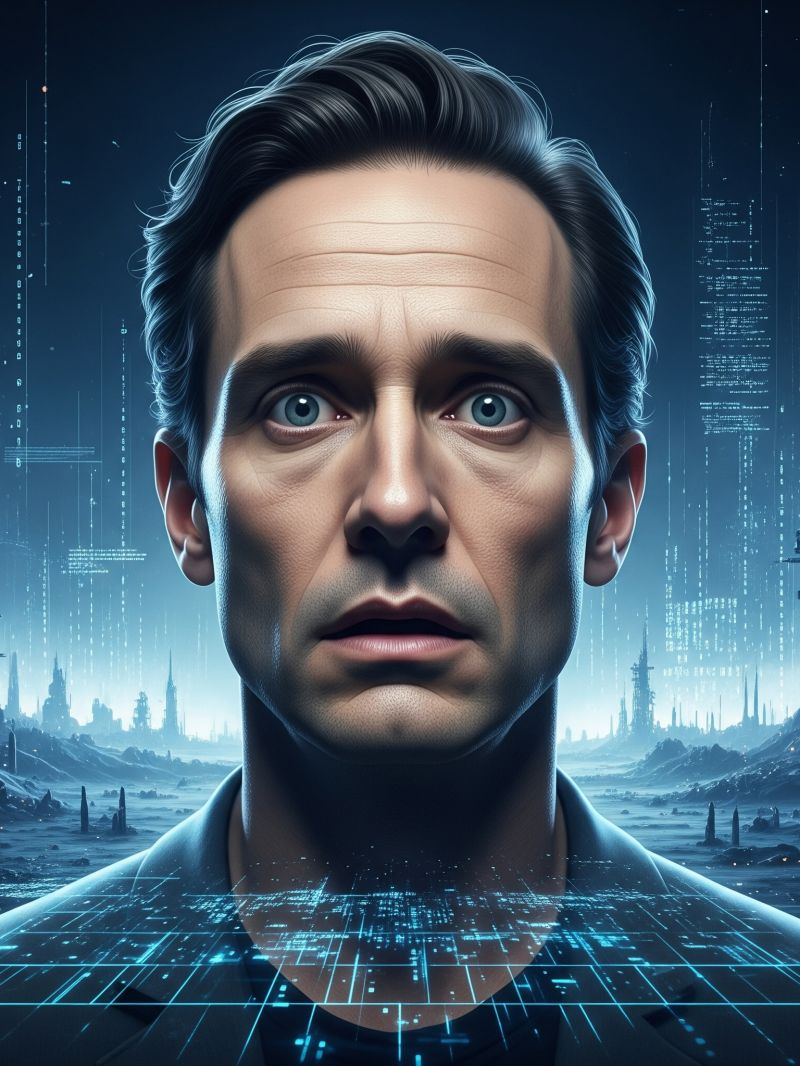
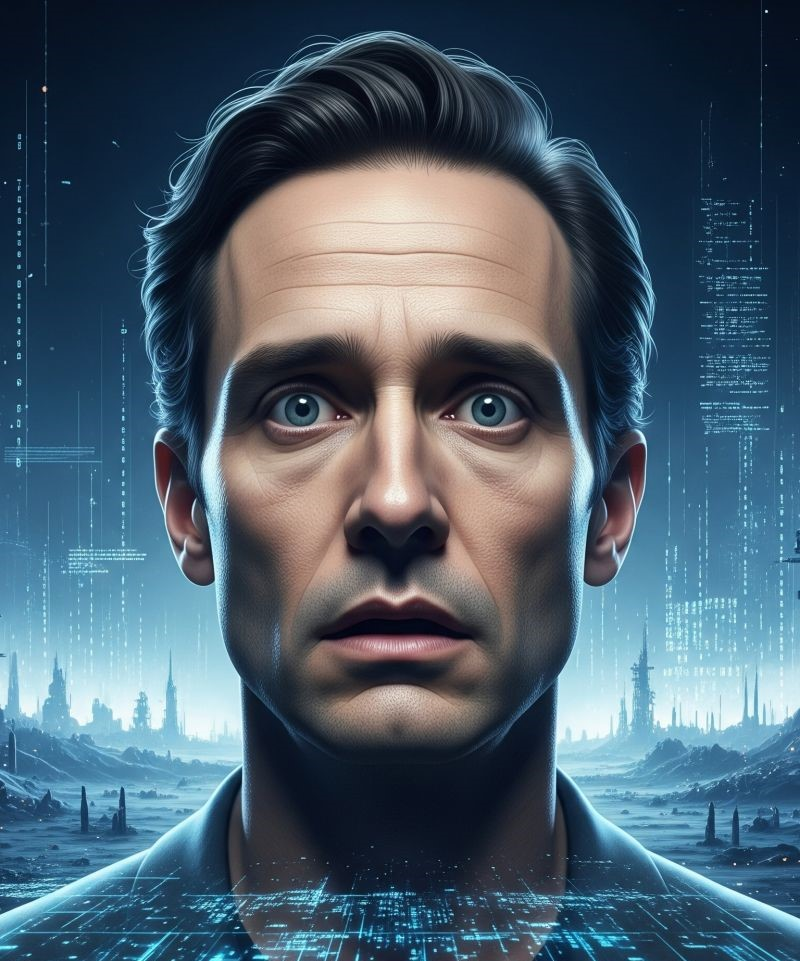
added style to background

diff --git a/client/src/components/post.css b/client/src/components/post.css
@@ -1,13 +1,16 @@
 .card {
-    background-color: white;
+    background-color: rgb(244, 242, 239);
     border-width: 5px;
-    border: #386c7aaa;
+    border: #ef500caa;
     height: 750px;
     width: 570px;
     border-radius: 15px;
+    padding-top: 5px;
+    padding-left: px;
+    border-width: 10px;
 }
 
-img {
+.img-post {
     display: flex;
     justify-self: center;
     justify-content: center;
@@ -27,25 +30,30 @@ p {
 }
 
 body {
-  margin: 0;
-  display: flex;
-  place-items: center;
-  min-width: 320px;
-  min-height: 100vh;
-  background-color: rgb(225, 229, 232);
+    margin: 0;
+    display: flex;
+    place-items: center;
+    min-width: 320px;
+    min-height: 100vh;
+    background-color: rgb(153, 179, 199);
+    background-image: url("./src/images/logo.png");
+    background-repeat:repeat;
+    background-attachment: fixed;
 }
 
 #root {
-  max-width: 1280px;
-  margin: 0 auto;
-  padding: 2rem;
-  text-align: center;
+    max-width: 1280px;
+    margin: 0 auto;
+    padding: 2rem;
 }
 
 .start-section {
-    margin: 50px;
+    /* margin: 50px; */
+    text-align: center;
 }
 
+.description {
+}
 .end-section {
     /* margin: 50px; */
     display: flex;
@@ -59,4 +67,16 @@ body {
 
 .item {
     margin: 15px;
+}
+
+.start-section .writer-name {
+    text-align:start;
+    margin: 10px;
+    margin-left: 25px;
+}
+
+.logo {
+    width: 150px;
+    height:150px;
+    border-radius: 30px;
 }

diff --git a/client/src/components/CreateFeed.tsx b/client/src/components/CreateFeed.tsx
@@ -1,5 +1,6 @@
 import AddPost from "./AddPost";
 import React, { useState, useEffect } from "react";
+import Header from "./Header";
 
 export default function CreateFeed() {
   const [posts, setPosts] = useState([]);
@@ -27,7 +28,8 @@ export default function CreateFeed() {
       <div className="item">
         <AddPost
               key={element.id}
-              title={element.title}
+              description={element.description}
+              writer={element.writer}
               imgUrl={element.imgUrl}
               likesCount={element.likesCount}
               createDate={element.createDate}
@@ -37,6 +39,7 @@ export default function CreateFeed() {
     });
     return (
       <>
+      <Header />
         <div className="container">{listItems}</div>
       </>
     );

diff --git a/client/src/components/AddPost.tsx b/client/src/components/AddPost.tsx
@@ -1,17 +1,17 @@
 import "./post.css";
 export default function AddPost(props: {
-  title: string;
+  writer: string;
   imgUrl: string;
   likesCount: number;
   createDate: any;
 }) {
-  console.log(props);
 
   return (
     <>
       <div className="card">
         <section className="start-section">
-          <h2>{props.title}</h2>
+          <h3 className="writer-name">{props.writer}</h3>
+          <p className="description">{props.description}</p>
         </section>
         <img className="img-post" src={props.imgUrl} />
         <section className="end-section">

diff --git a/client/src/components/Header.tsx b/client/src/components/Header.tsx
@@ -1,0 +1,9 @@
+export default function Header() {
+  return (
+    <>
+      <header className="header">
+        
+      </header>
+    </>
+  );
+}
